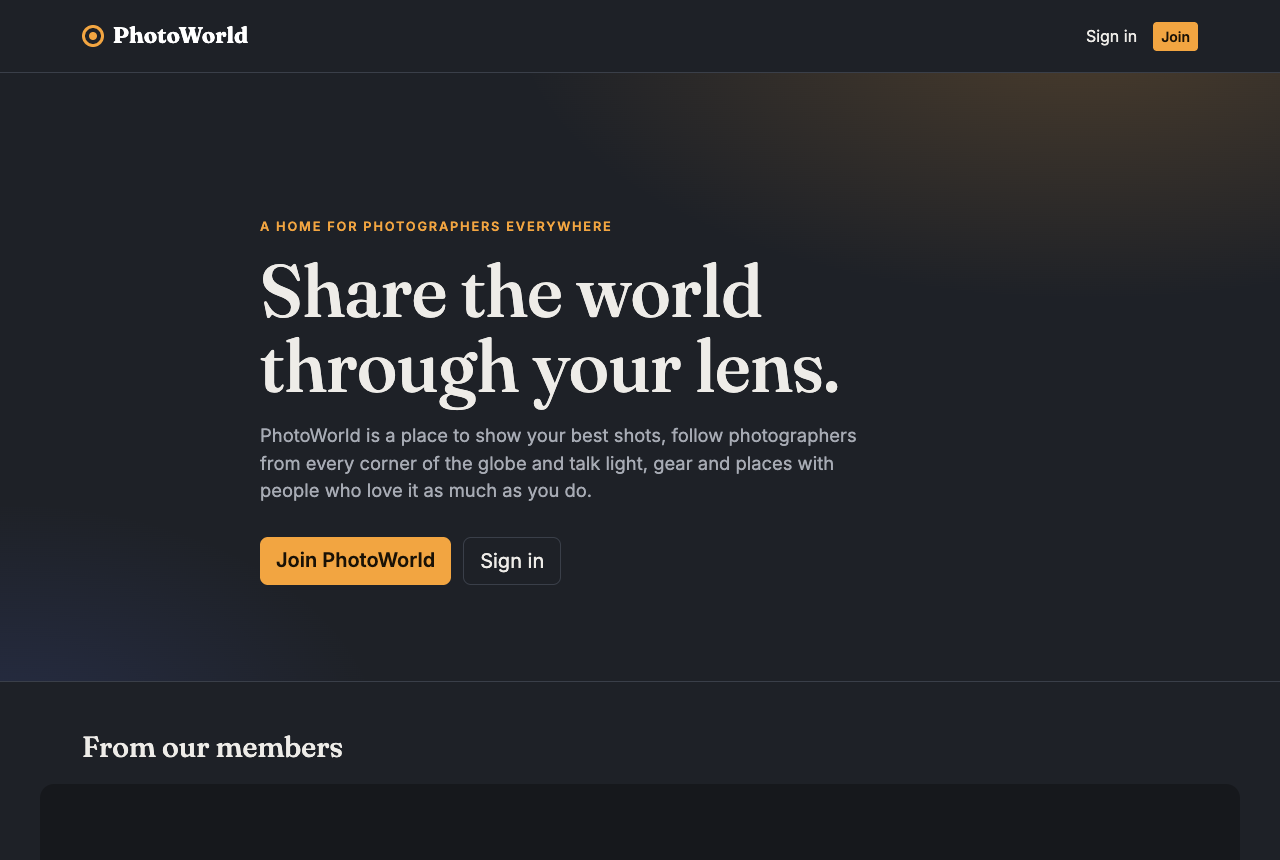
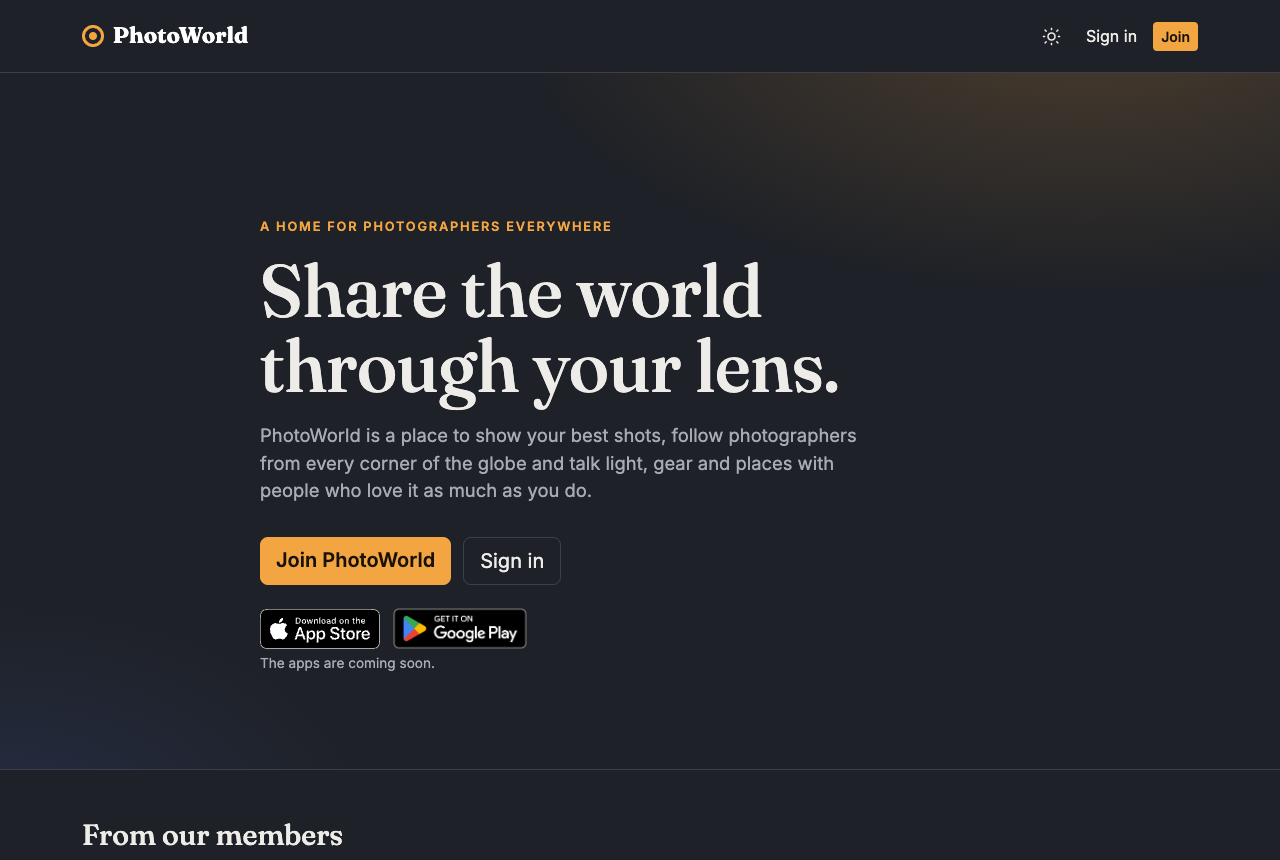
README: Android sign-in in light and dark, and refreshed home page screenshots

diff --git a/README.md b/README.md
@@ -18,17 +18,18 @@ PhotoWorld.slnx
 
 ## What it looks like
 
-PhotoWorld uses a light look (Gallery White) that switches to a soft dark one (Graphite) with the device's dark mode.
-These are the signed-out screens; everything else needs a member account.
+PhotoWorld has a light look (Gallery White) and a soft dark one (Graphite). It follows the device's setting, and the
+moon/sun icon switches it on the website and in the apps. These are the signed-out screens; everything else needs a
+member account.
 
 | Website, light | Website, dark |
 |---|---|
 | ![PhotoWorld home page, light](docs/images/web-home-light.png) | ![PhotoWorld home page, dark](docs/images/web-home-dark.png) |
 | ![Sign-in page, light](docs/images/web-login-light.png) | ![Sign-in page, dark](docs/images/web-login-dark.png) |
 
-| iPhone, light | iPhone, dark | Android |
-|---|---|---|
-| ![App sign-in on iPhone, light](docs/images/app-ios-light.png) | ![App sign-in on iPhone, dark](docs/images/app-ios-dark.png) | ![App sign-in on Android](docs/images/app-android.png) |
+| iPhone, light | iPhone, dark | Android, light | Android, dark |
+|---|---|---|---|
+| ![App sign-in on iPhone, light](docs/images/app-ios-light.png) | ![App sign-in on iPhone, dark](docs/images/app-ios-dark.png) | ![App sign-in on Android, light](docs/images/app-android-light.png) | ![App sign-in on Android, dark](docs/images/app-android-dark.png) |
 
 ## How sign-in works
 
